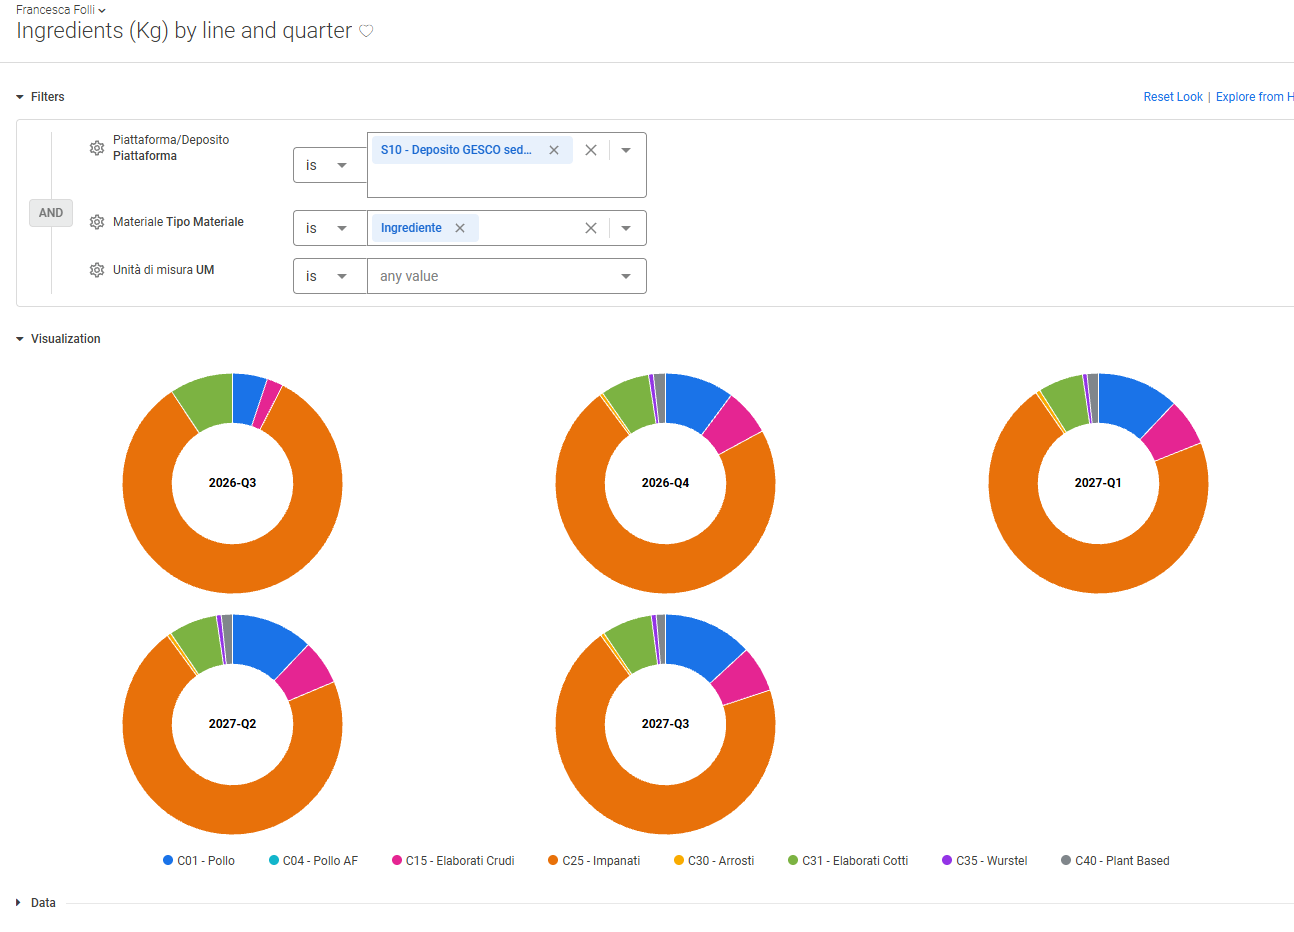
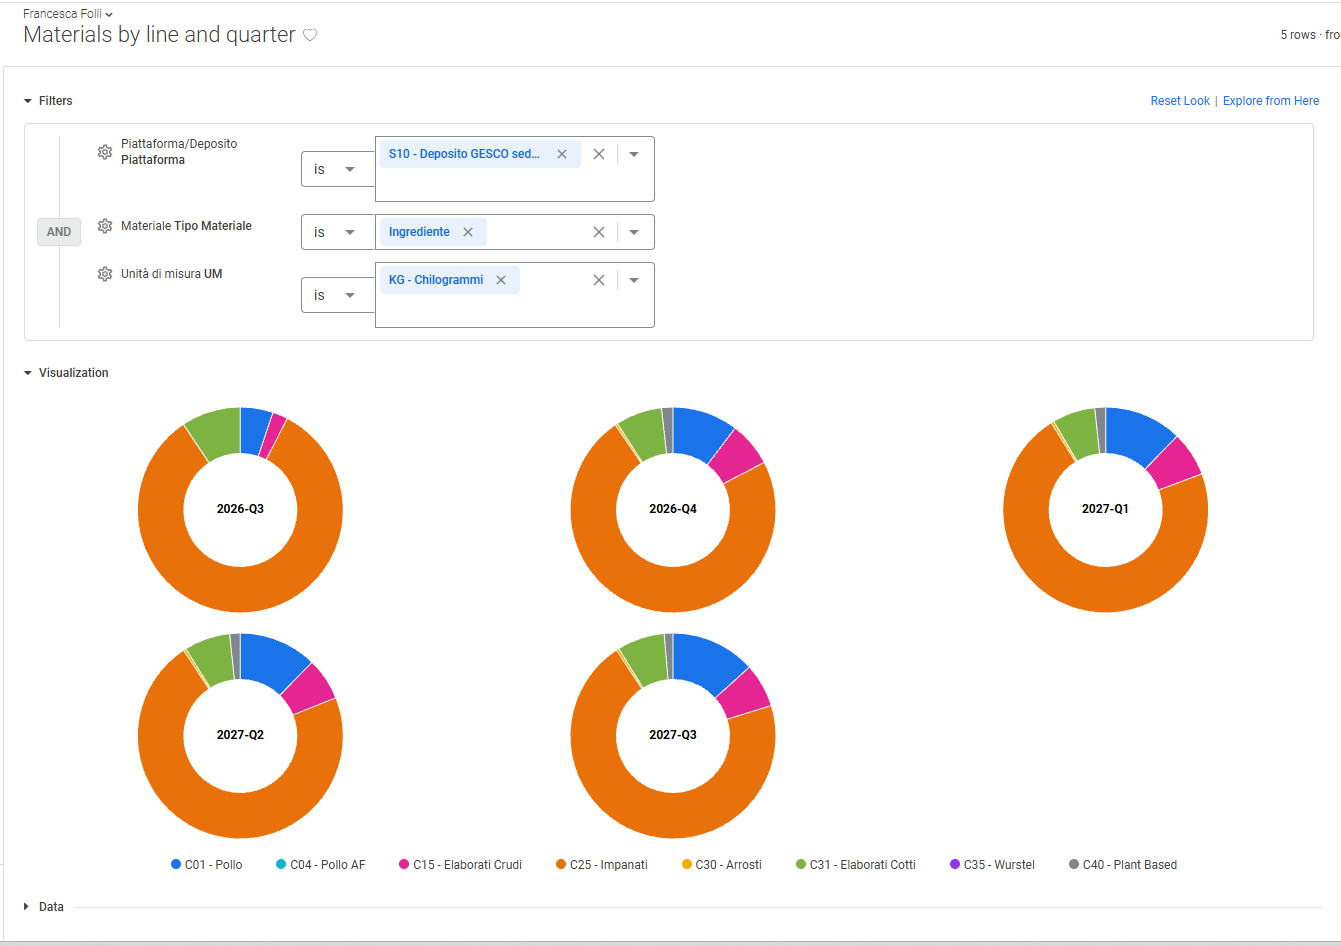
techstack: Look rinominato "Materials by line and quarter"
Nuovo screenshot del Look con titolo generico, dato che tipo materiale
e unità di misura sono filtri modificabili dall'utente; aggiornati
didascalia e testo.

diff --git a/chapters/techstack.tex b/chapters/techstack.tex
@@ -373,12 +373,12 @@ To overcome this divide, the operating model formalized in \Cref{sec:organizatio
     \label{fig:looker_selfservice}
 \end{figure}
 
-Once validated, such an exploration is not left as a one-off query but saved as a \textit{Look}, as shown in \Cref{fig:looker_look}. A Look is a named, persistent analytical asset that stores the selected fields, filters, and visualization settings, and is published in a shared folder where business users consume it in read-only mode. Users can still adjust the exposed filters (e.g., platform, material type, or unit of measure), whose suggested values are populated directly from the LookML model, without being able to alter the underlying query definition.
+Once validated, such an exploration is not left as a one-off query but saved as a \textit{Look}, as shown in \Cref{fig:looker_look}. A Look is a named, persistent analytical asset that stores the selected fields, filters, and visualization settings, and is published in a shared folder where business users consume it in read-only mode. Users can still adjust the exposed filters (e.g., platform, material type, or unit of measure), whose suggested values are populated directly from the LookML model, without being able to alter the underlying query definition. For this reason the Look is deliberately given a generic title: the same asset answers the question for ingredients in kilograms as well as for packaging in linear meters, simply by changing the filter values.
 
 \begin{figure}[htbp]
     \centering
     \includegraphics[width=\textwidth]{figures/looker_look.png}
-    \caption{The exploration of \Cref{fig:looker_selfservice} saved as a reusable Look (\textit{Ingredients (Kg) by line and quarter}), consumed by business users in read-only mode with adjustable filters.}
+    \caption{The exploration of \Cref{fig:looker_selfservice} saved as a reusable Look (\textit{Materials by line and quarter}), consumed by business users in read-only mode; platform, material type, and unit of measure remain adjustable filters.}
     \label{fig:looker_look}
 \end{figure}
 
